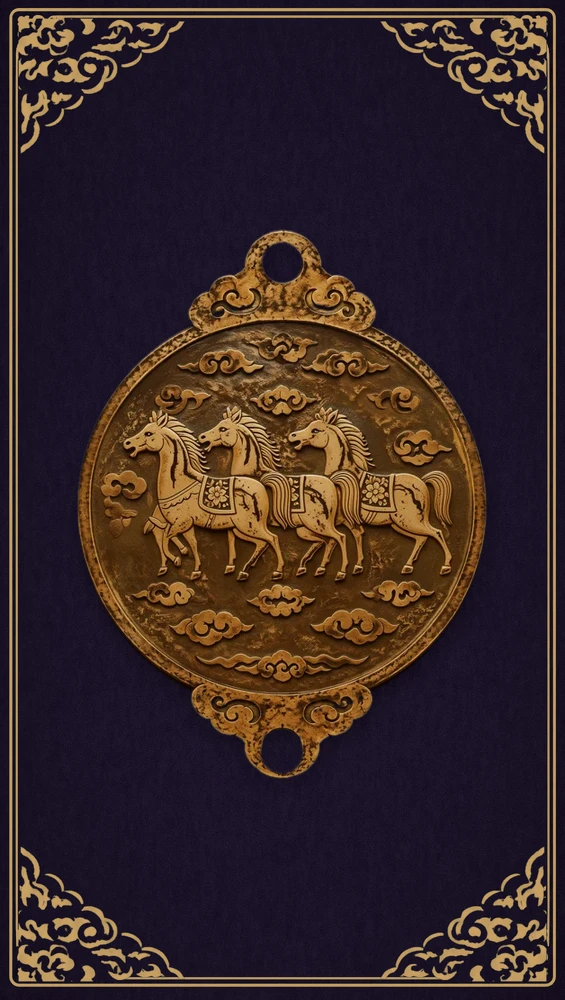
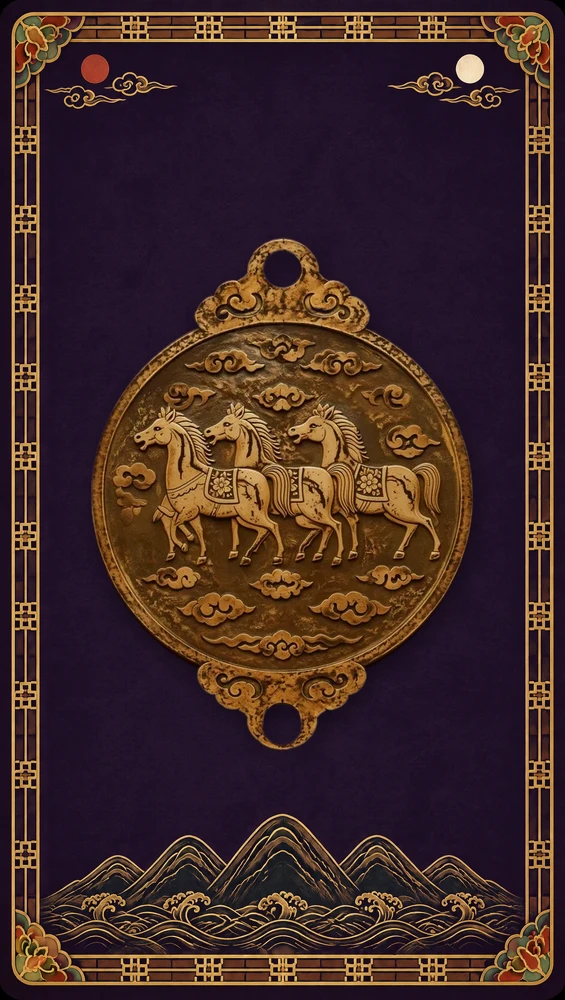
Tarot room: Joseon motifs on the Joseon back, deck choice up front
- Joseon card back: 창호 문살 lattice frame, sun and moon with clouds at
  the top, the five peaks and waves of 일월오봉도 at the bottom and small
  단청 corner knots on the room's plum, with the original brass mapae in
  the centre (family deck back unchanged)
- Joseon-only touches follow the chosen deck: the 암행어사 출두 reveal and
  a faint lattice on the spread cloth and shuffle panel appear only with
  the Joseon deck (body.deck-joseon / deck-family)
- The question screen now starts with '먼저, 마음이 끌리는 덱을 골라
  주세요': two cards per deck (back and The Fool) with a short
  description, keyboard-selectable, kept in sync with the menu

Claude-Session: https://claude.ai/code/session_01YCpuT7acRGhxaR55pFkXnR

diff --git a/tarot-room/fixes.css b/tarot-room/fixes.css
@@ -240,3 +240,26 @@ body.chuldu-open{overflow:hidden}
 .compact-settings[open] .tsel-list{position:fixed}
 .chuldu{background:radial-gradient(ellipse at 50% 45%,#2a1c0ef5 0%,#0b0710fa 60%,#060409 100%)!important}
 @keyframes cd-ring{0%{opacity:.85;transform:scale(1)}60%{opacity:0;transform:scale(18)}100%{opacity:0;transform:scale(20)}}
+/* ---- Deck picker ---- */
+.deck-pick{margin:4px 0 22px}
+.deck-pick-title{margin:0 0 10px;font-size:13px;color:#d9bf8f;letter-spacing:.03em}
+.deck-pick-row{display:grid;grid-template-columns:1fr 1fr;gap:12px}
+.deck-opt{display:flex;gap:12px;align-items:center;text-align:left;padding:12px;border-radius:14px;border:1px solid #c9a46a40;background:linear-gradient(180deg,#1e1629,#150f1d);color:#efe2c8;cursor:pointer;transition:border-color .15s,box-shadow .15s,transform .15s}
+.deck-opt:hover{border-color:#d4b27a88}
+.deck-opt.is-on{border-color:#e3c48c;box-shadow:0 0 0 3px #d4b27a33,0 10px 24px #0006}
+.deck-opt:focus-visible{outline:none;box-shadow:0 0 0 3px #d4b27a66}
+.deck-opt-cards{position:relative;flex:none;width:64px;height:106px}
+.deck-opt-cards::before{content:'';position:absolute;inset:0;border-radius:6px;background:var(--back) center/cover;transform:rotate(-9deg) translate(-6px,2px);box-shadow:0 6px 14px #0008;border:1px solid #c9a46a55}
+.deck-opt-cards img{position:absolute;inset:0;width:100%;height:100%;object-fit:cover;border-radius:6px;transform:rotate(6deg) translate(6px,0);box-shadow:0 8px 16px #0009;border:1px solid #c9a46a66}
+.deck-opt-text{display:grid;gap:4px;min-width:0}
+.deck-opt-text strong{font-size:15px;color:#f3dfbc}
+.deck-opt-text span{font-size:12.5px;line-height:1.55;color:#cbbfd2}
+.deck-opt.is-on .deck-opt-text strong::after{content:' ✓';color:#d4b27a}
+@media (max-width:520px){.deck-pick-row{grid-template-columns:1fr}.deck-opt-cards{width:54px;height:90px}}
+/* ---- Joseon-only touches (only while the Joseon deck is chosen) ---- */
+body.deck-joseon .compact-app .observation-well,body.compact-app.deck-joseon .observation-well{box-shadow:0 20px 55px #03010788,inset 0 0 0 6px #3d281bbd,inset 0 0 0 7px #d3ab683d,inset 0 0 0 11px #12101a,inset 0 0 0 12px #c9a46a33}
+body.deck-joseon .physical-deck-scroll{background:
+  repeating-linear-gradient(0deg,#c9a46a0d 0 1px,transparent 1px 22px),repeating-linear-gradient(90deg,#c9a46a0d 0 1px,transparent 1px 22px),
+  radial-gradient(ellipse at 50% 20%,#533b6e44,transparent 70%),#1a142b!important}
+body.deck-joseon .shuffle-ritual{background:repeating-linear-gradient(0deg,#c9a46a0a 0 1px,transparent 1px 26px),repeating-linear-gradient(90deg,#c9a46a0a 0 1px,transparent 1px 26px),radial-gradient(ellipse at 50% 30%,#3a2a4f55,transparent 70%),#110c18}
+body.deck-joseon .reading-cards::before{content:'';position:absolute}

diff --git a/tarot-room/deckpick.js b/tarot-room/deckpick.js
@@ -1,0 +1,22 @@
+// Choose a preferred deck at the start; Joseon-only touches follow the chosen deck.
+document.addEventListener('DOMContentLoaded',()=>{
+ const DECKS=[
+  {id:'joseon',name:'조선 덱',desc:'한복과 궁궐, 산수를 금빛으로 그린 덱. 마패를 든 암행어사가 함께해요.'},
+  {id:'family',name:'가족 이미지 덱',desc:'노을빛 풍경 속 오늘의 사람들. 따뜻한 일상 그림의 덱이에요.'}
+ ];
+ const syncBody=()=>{document.body.classList.toggle('deck-joseon',selectedDeck==='joseon');document.body.classList.toggle('deck-family',selectedDeck==='family');};
+ const topic=document.querySelector('.topic-first');
+ if(topic){
+  const box=document.createElement('div');box.className='deck-pick';box.setAttribute('role','radiogroup');box.setAttribute('aria-labelledby','deck-pick-title');
+  box.innerHTML='<p class="deck-pick-title" id="deck-pick-title">먼저, 마음이 끌리는 덱을 골라 주세요</p><div class="deck-pick-row">'+DECKS.map(d=>
+   `<button type="button" class="deck-opt" role="radio" data-deck="${d.id}"><span class="deck-opt-cards" aria-hidden="true"><img alt="" data-face></span><span class="deck-opt-text"><strong>${d.name}</strong><span>${d.desc}</span></span></button>`).join('')+'</div>';
+  topic.prepend(box);
+  const paint=()=>{box.querySelectorAll('.deck-opt').forEach(b=>{const on=b.dataset.deck===selectedDeck;b.setAttribute('aria-checked',String(on));b.tabIndex=on?0:-1;b.classList.toggle('is-on',on);
+   const im=b.querySelector('[data-face]');im.src=DECK_IMAGES[b.dataset.deck]['major-0'];const back=DECK_IMAGES[b.dataset.deck].back;b.querySelector('.deck-opt-cards').style.setProperty('--back',`url("${back}")`);});};
+  box.addEventListener('click',e=>{const b=e.target.closest('.deck-opt');if(!b)return;selectImageDeck(b.dataset.deck);paint();syncBody();});
+  box.addEventListener('keydown',e=>{if(!['ArrowLeft','ArrowRight','ArrowUp','ArrowDown'].includes(e.key))return;e.preventDefault();const i=DECKS.findIndex(d=>d.id===selectedDeck),n=DECKS[(i+1)%DECKS.length];selectImageDeck(n.id);paint();syncBody();box.querySelector(`[data-deck="${n.id}"]`).focus();});
+  const base=window.selectImageDeck;window.selectImageDeck=function(...a){const r=base.apply(this,a);paint();syncBody();return r;};
+  paint();
+ }
+ syncBody();
+});

diff --git a/tarot-room/index.html b/tarot-room/index.html
@@ -3273,6 +3273,6 @@
     document.addEventListener(`DOMContentLoaded`, function() { initApp(); selectImageDeck(selectedDeck); });
   </script>
 <script>selectImageDeck(selectedDeck);</script>
-<script src="topics.js"></script><script src="studio.js"></script><script src="experience.js"></script><script src="room-flow.js"></script><script src="compact.js"></script><script src="parlour.js"></script><script src="guided.js"></script><script src="dropdowns.js"></script><script src="simple.js"></script><script src="rows.js"></script><script src="flow.js"></script><script src="ritual.js"></script><script src="restart.js"></script><script src="cardview.js"></script><script src="chuldu.js"></script><script src="themed-select.js"></script>
+<script src="topics.js"></script><script src="studio.js"></script><script src="experience.js"></script><script src="room-flow.js"></script><script src="compact.js"></script><script src="parlour.js"></script><script src="guided.js"></script><script src="dropdowns.js"></script><script src="simple.js"></script><script src="rows.js"></script><script src="flow.js"></script><script src="ritual.js"></script><script src="restart.js"></script><script src="cardview.js"></script><script src="deckpick.js"></script><script src="chuldu.js"></script><script src="themed-select.js"></script>
 </body>
 </html>

diff --git a/tarot-room/guided.js b/tarot-room/guided.js
@@ -74,7 +74,7 @@ document.addEventListener('DOMContentLoaded',()=>{
  heading.textContent=greeting;
  const originalArrival=completeArrival;
  window.completeArrival=function(){originalArrival();softlyType(heading,greeting);};
- topic.querySelector('.field-label').textContent='마음이 가는 고민 분야를 먼저 골라 주세요';
+ topic.querySelector('.field-label').textContent='이제, 마음이 가는 고민 분야를 골라 주세요';
  const group=topic.querySelector('[role="group"]');group.classList.add('intake-topic-grid');group.querySelectorAll('button').forEach(b=>{b.setAttribute('aria-pressed','false');b.onclick=()=>chooseIntakeTopic(b.dataset.category);});
  const unsure=document.createElement('button');unsure.type='button';unsure.id='intake-unsure';unsure.className='pill-btn';unsure.textContent='아직 잘 모르겠어요';unsure.setAttribute('aria-pressed','false');unsure.onclick=()=>chooseIntakeTopic('inner',true);group.append(unsure);
  const pick=document.createElement('select');pick.id='intake-topic-select';pick.className='intake-topic-select';

diff --git a/tarot-room/chuldu.js b/tarot-room/chuldu.js
@@ -12,7 +12,7 @@ document.addEventListener('DOMContentLoaded',()=>{
  ov.addEventListener('click',()=>{clearTimeout(timer);ov.hidden=true;ov.classList.remove('go','out');document.body.classList.remove('chuldu-open');});
  const base=window.updateTableControls;window.updateTableControls=function(...a){const r=base.apply(this,a);
   const key=appState.drawnSlots.map(s=>s.card.id).join(',');
-  if(allCardsFlipped()&&key&&key!==shownFor&&compactStage==='cards'){shownFor=key;play();}
+  if(allCardsFlipped()&&key&&key!==shownFor&&compactStage==='cards'){shownFor=key;if(selectedDeck==='joseon')play();}
   if(!appState.drawnSlots.length)shownFor='';
   return r;};
 });
